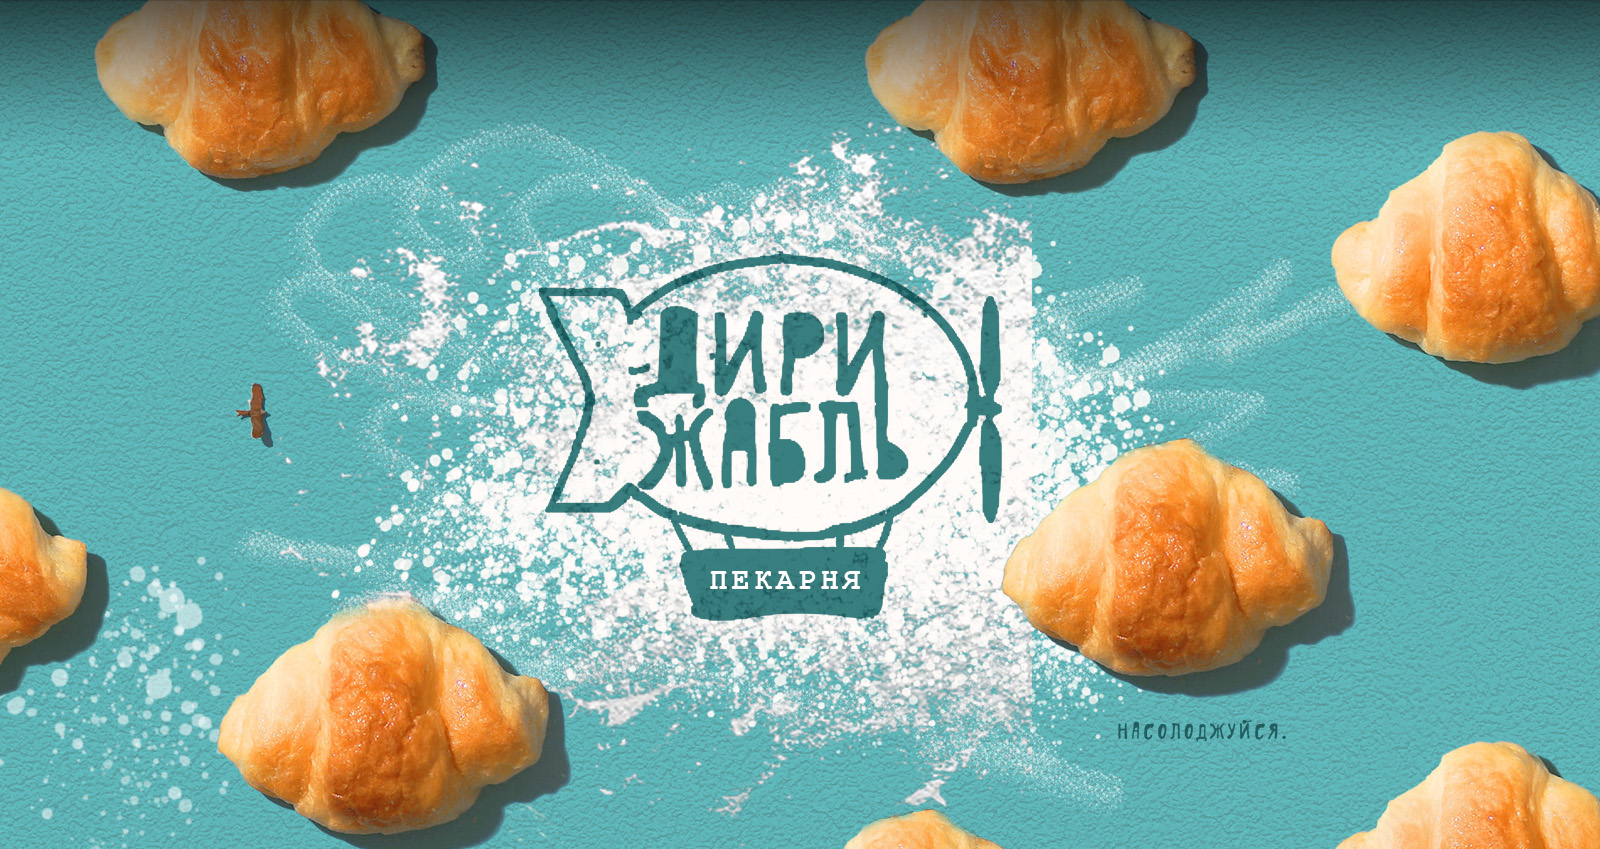
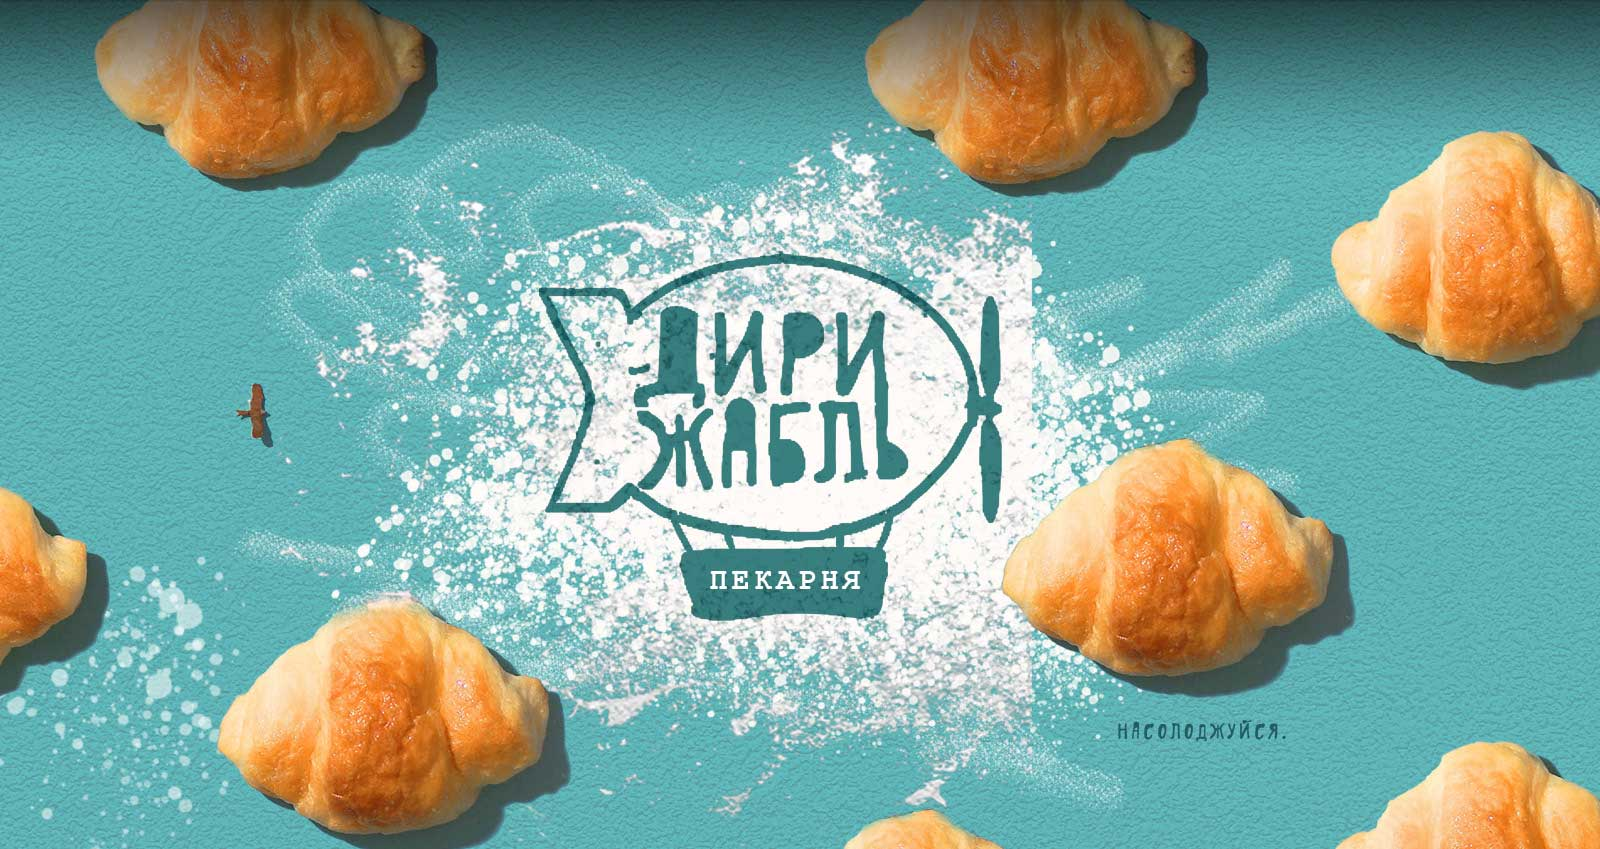
Added responsive design, reduced image sizes, bugs fixed.

diff --git a/index.html b/index.html
@@ -7,27 +7,7 @@
     <meta http-equiv="X-UA-Compatible" content="ie=edge">
     <title>Дирижабль</title>
 
-    <script src="https://code.jquery.com/jquery-3.4.1.min.js"></script>
-    <script src="https://cdnjs.cloudflare.com/ajax/libs/popper.js/1.14.7/umd/popper.min.js"
-        integrity="sha384-UO2eT0CpHqdSJQ6hJty5KVphtPhzWj9WO1clHTMGa3JDZwrnQq4sF86dIHNDz0W1"
-        crossorigin="anonymous"></script>
-    <script src="https://stackpath.bootstrapcdn.com/bootstrap/4.3.1/js/bootstrap.min.js"
-        integrity="sha384-JjSmVgyd0p3pXB1rRibZUAYoIIy6OrQ6VrjIEaFf/nJGzIxFDsf4x0xIM+B07jRM"
-        crossorigin="anonymous"></script>
-
-    <script>
-        function initMap() {
-            var bakeryLocation = { lat: 49.8410154, lng: 24.0316713 };
-            var map = new google.maps.Map(
-                document.getElementById('map'), { zoom: 16, center: bakeryLocation });
-            var marker = new google.maps.Marker({ position: bakeryLocation, map: map });
-        }
-    </script>
-
-    <script async defer src="https://maps.googleapis.com/maps/api/js?key=AIzaSyDWa-a28Io-II2rW0pAmJlHdztydHUeLAg&callback=initMap"></script>
-
     <link href="https://fonts.googleapis.com/css?family=Neucha|Pacifico&display=swap" rel="stylesheet">
-
     <link rel="stylesheet" href="https://stackpath.bootstrapcdn.com/bootstrap/4.3.1/css/bootstrap.min.css"
         integrity="sha384-ggOyR0iXCbMQv3Xipma34MD+dH/1fQ784/j6cY/iJTQUOhcWr7x9JvoRxT2MZw1T" crossorigin="anonymous">
     <link rel="stylesheet" href="css/index.css">
@@ -39,9 +19,9 @@
         <span>Вгору</span>
     </div>
     <header class="container-fluid">
-        <nav class="navbar navbar-expand-lg navbar-light">
+        <nav class="navbar navbar-expand-lg navbar-dark">
             <a class="navbar-brand" href="#">
-                <img src="images/main-logo.png" alt="Дирижабль" title="Дирижабль">
+                <img class="img-fluid" src="images/main-logo.png" alt="Дирижабль" title="Дирижабль">
             </a>
             <button class="navbar-toggler" type="button" data-toggle="collapse" data-target="#navbarNavAltMarkup"
                 aria-controls="navbarNavAltMarkup" aria-expanded="false" aria-label="Toggle navigation">
@@ -60,7 +40,7 @@
     <article id="aboutUs">
         <section class="history container-fluid">
             <div class="container">
-                <div class="row">
+                <div class="row align-items-center">
                     <div class="col-md">
                         <div class="text">
                             <h2>Авторські поєднання</h2>
@@ -114,65 +94,55 @@
     <article id="new">
         <section class="create container-fluid">
             <div class="row align-items-center">
-                <div class="col-md-3">
+                <div class="col-md-3 text-center">
                     <img class="img-fluid" src="images/tomato.png" alt="Чоловік тягне помідор">
                 </div>
-                <div class="col-md">
+                <div class="col-md text-center">
                     <div class="relative">
                         <h3>Створи сам свій круасан!</h3>
                         <img class="img-fluid" src="images/croissant.png" alt="Чоловік лізе драбиною на круасан">
                     </div>
                 </div>
-                <div class="col-md-3">
+                <div class="col-md-3 text-center">
                     <img class="img-fluid" src="images/leaf.png" alt="Чоловік летить на листочку-парашуті">
                 </div>
             </div>
         </section>
-        <!-- TODO: Remove if redundant -->
-        <!--
-        <section class="summer-addition">
-            <h4>
-                <b>NEW! </b><i>Спробуй літо на смак!</i></h4>
-            <ul>
-                <li>Вибери свою ягоду</li>
-                <li>Додай поливку</li>
-                <li>Смузі чи фреш?</li>
-                <li>I... Насолоджуйся!</li>
-            </ul>
-        </section>
-    </article> -->
-        <article id="events" class="container">
 
+        <article id="events" class="container">
             <h3 class="text-center">У нас гостює...</h3>
-            <div id="carousel" class="carousel slide" data-ride="carousel">
-                <ol class="carousel-indicators">
-                    <li data-target="#carousel" data-slide-to="0" class="active"></li>
-                    <li data-target="#carousel" data-slide-to="1"></li>
-                    <li data-target="#carousel" data-slide-to="2"></li>
-                </ol>
-                <div class="carousel-inner">
-                    <div class="carousel-item active">
-                        <img src="../main-project/images/odynvkanoe.png" class="d-block w-100 img-fluid"
-                            alt="Гурт 'Один в каное'">
+            <div class="row justify-content-md-center">
+                <div id="carousel" class="carousel slide col-md-8" data-ride="carousel">
+                    <ol class="carousel-indicators">
+                        <li data-target="#carousel" data-slide-to="0" class="active"></li>
+                        <li data-target="#carousel" data-slide-to="1"></li>
+                        <li data-target="#carousel" data-slide-to="2"></li>
+                    </ol>
+                    <div class="carousel-inner">
+                        <div class="carousel-item active">
+                            <img src="../main-project/images/odynvkanoe.jpg" class="d-block w-100 img-fluid"
+                                alt="Гурт 'Один в каное'">
+                        </div>
+                        <div class="carousel-item">
+                            <img src="../main-project/images/o.torvald.jpg" class="d-block w-100 img-fluid"
+                                alt="Гурт 'O.Torvald'">
+                        </div>
+                        <div class="carousel-item">
+                            <img src="../main-project/images/jamala.jpg" class="d-block w-100 img-fluid"
+                                alt="Співачка Джамала">
+                        </div>
                     </div>
-                    <div class="carousel-item">
-                        <img src="../main-project/images/o.torvald.png" class="d-block w-100 img-fluid"
-                            alt="Гурт 'O.Torvald'">
-                    </div>
-                    <div class="carousel-item">
-                        <img src="../main-project/images/jamala.png" class="d-block w-100 img-fluid"
-                            alt="Співачка Джамала">
-                    </div>
+                    <a class="carousel-control-prev" href="#carousel" role="button" data-slide="prev">
+                        <span class="carousel-control-prev-icon" aria-hidden="true"></span>
+                        <span class="sr-only">Previous</span>
+                    </a>
+                    <a class="carousel-control-next" href="#carousel" role="button" data-slide="next">
+                        <span class="carousel-control-next-icon" aria-hidden="true"></span>
+                        <span class="sr-only">Next</span>
+                    </a>
                 </div>
-                <a class="carousel-control-prev" href="#carousel" role="button" data-slide="prev">
-                    <span class="carousel-control-prev-icon" aria-hidden="true"></span>
-                    <span class="sr-only">Previous</span>
-                </a>
-                <a class="carousel-control-next" href="#carousel" role="button" data-slide="next">
-                    <span class="carousel-control-next-icon" aria-hidden="true"></span>
-                    <span class="sr-only">Next</span>
-                </a>
             </div>
+
         </article>
         <footer class="main-footer">
             <div class="container">
@@ -203,9 +173,9 @@
                             <div class="links">
                                 email: <a href="mailto:contact-dyryzabl@gmail.com">contact-dyryzabl@gmail.com</a>
                                 <div class="social-links">
-                                    <a href="https://www.facebook.com/julie.gorova"><img
+                                    <a target="_blank" href="https://www.facebook.com/julie.gorova"><img
                                             src="../main-project/images/facebook.png"></a>
-                                    <a href="https://www.instagram.com/gor.ju/"><img
+                                    <a target="_blank" href="https://www.instagram.com/gor.ju/"><img
                                             src="../main-project/images/instagram.png"></a>
                                 </div>
                             </div>
@@ -218,6 +188,16 @@
             </div>
             <p class="text-center copyright">2019 Юлія Горова. Всі права захищені ©</p>
         </footer>
+
+        <script src="https://code.jquery.com/jquery-3.4.1.min.js"></script>
+        <script src="https://cdnjs.cloudflare.com/ajax/libs/popper.js/1.14.7/umd/popper.min.js"
+            integrity="sha384-UO2eT0CpHqdSJQ6hJty5KVphtPhzWj9WO1clHTMGa3JDZwrnQq4sF86dIHNDz0W1"
+            crossorigin="anonymous"></script>
+        <script src="https://stackpath.bootstrapcdn.com/bootstrap/4.3.1/js/bootstrap.min.js"
+            integrity="sha384-JjSmVgyd0p3pXB1rRibZUAYoIIy6OrQ6VrjIEaFf/nJGzIxFDsf4x0xIM+B07jRM"
+            crossorigin="anonymous"></script>
+        <script async defer
+            src="https://maps.googleapis.com/maps/api/js?key=AIzaSyDWa-a28Io-II2rW0pAmJlHdztydHUeLAg&callback=initMap"></script>
         <script src="script/script.js"></script>
 </body>
 

diff --git a/css/index.css b/css/index.css
@@ -1,5 +1,4 @@
 body {
-
     font-family: 'Neucha', cursive;
     margin: auto;
 }
@@ -19,6 +18,7 @@ h1, h2, h3, h4, h5, h6 {
     background-color: transparent;
     border-color: #fff;
 }
+
 .relative {
     position: relative;
 }
@@ -33,6 +33,7 @@ h1, h2, h3, h4, h5, h6 {
     background: url("../images/to-top-icon.png") no-repeat;
     background-size: contain;
     cursor: pointer;
+    z-index: 1;
 }
 
 #scrollToTop:hover {
@@ -47,22 +48,26 @@ h1, h2, h3, h4, h5, h6 {
 }
 
 header {
-    background-image: url("../images/banner.jpg");
+    background: url("../images/banner.jpg") top center no-repeat;
     background-size: cover;
-    height: 850px;
+    height: 750px;
 }
 
-.navbar-light .navbar-nav .nav-link {
+.navbar-dark .navbar-nav .nav-link {
     text-decoration: none;
     color: #fafaf8;
     font-size: 26px;
     margin: 0 35px;
 }
 
-.navbar-light .navbar-nav .nav-link:focus,
-.navbar-light .navbar-nav .nav-link:hover {
+.navbar-dark .navbar-nav .nav-link:focus,
+.navbar-dark .navbar-nav .nav-link:hover {
     color: #bafaf8;
     opacity: 0.8;
+}
+
+.navbar-dark .navbar-toggler {
+    border: 2px solid white;
 }
 
 .history {
@@ -78,10 +83,11 @@ header {
     background-image: url("../images/ingredients.jpg");
     height: 750px;
     padding-top: 2%;
+    background-size: cover;
 }
 
 .ingredients-text {
-margin: 30px 20px 30px 80px;
+    padding: 30px 20px 30px 80px;
 }
 
 .create {
@@ -109,7 +115,6 @@ margin: 30px 20px 30px 80px;
 }
 
 #carousel {
-    width: 600px;
     margin: 20px auto 0 auto;
 }
 

diff --git a/css/responsive.css b/css/responsive.css
@@ -1,21 +1,86 @@
 @media (min-width: 320px) {
+    header {
+        height: 300px;
+    }
 
+    .ingredients {
+        height: 380px;
+    }
 }
 
 @media (min-width: 576px) {
-
+    header {
+        height: 320px;
+    }
+    .ingredients {
+        height: 420px;
+    }
 }
 
 @media (min-width: 768px) {
-
+    header {
+        height: 400px;
+    }
+    .ingredients {
+        height: 430px;
+    }
 }
 
 @media (min-width: 992px) {
-    .navbar-expand-lg .navbar-nav {
-        margin-left: 10%
+    header {
+        height: 480px;
+    }
+    .ingredients {
+        height: 500px;
     }
 }
 
 @media (min-width: 1200px) {
+    header {
+        height: 750px;
+    }
+    .ingredients {
+        height: 600px;
+    }
+}
 
+@media (max-width: 767px) {
+    header .navbar-nav {
+        background: rgba(0,0,0,0.4);
+    }
+
+    .navbar-dark .navbar-nav .nav-link {
+        font-size: 18px;
+    }
+
+    .navbar-brand {
+        width: 100px;
+    }
+
+    .main-footer .col-md {
+        margin-bottom: 30px;
+    }
+}
+
+@media (max-width: 991px) {
+    .history {
+        padding: 10px 0 20px 0;
+    }
+
+    .ingredients-text {
+        padding: 20px;
+        color: white;
+        background: rgba(0,0,0,0.4);
+    }
+
+    * {
+        font-size: 13px;
+    }
+}
+
+@media (max-width: 575px) {
+    .create .relative > h3 {
+        position: static;
+        margin: 20px auto 30px;
+    }
 }

diff --git a/script/script.js b/script/script.js
@@ -1,3 +1,12 @@
+// Init Google Map
+function initMap() {
+  var bakeryLocation = { lat: 49.8410154, lng: 24.0316713 };
+  var map = new google.maps.Map(
+      document.getElementById('map'), { zoom: 16, center: bakeryLocation });
+  var marker = new google.maps.Marker({ position: bakeryLocation, map: map });
+}
+
+//Scroll to top functionality
 $(document).ready(function () {
   var scrollTop = $("#scrollToTop");
 
